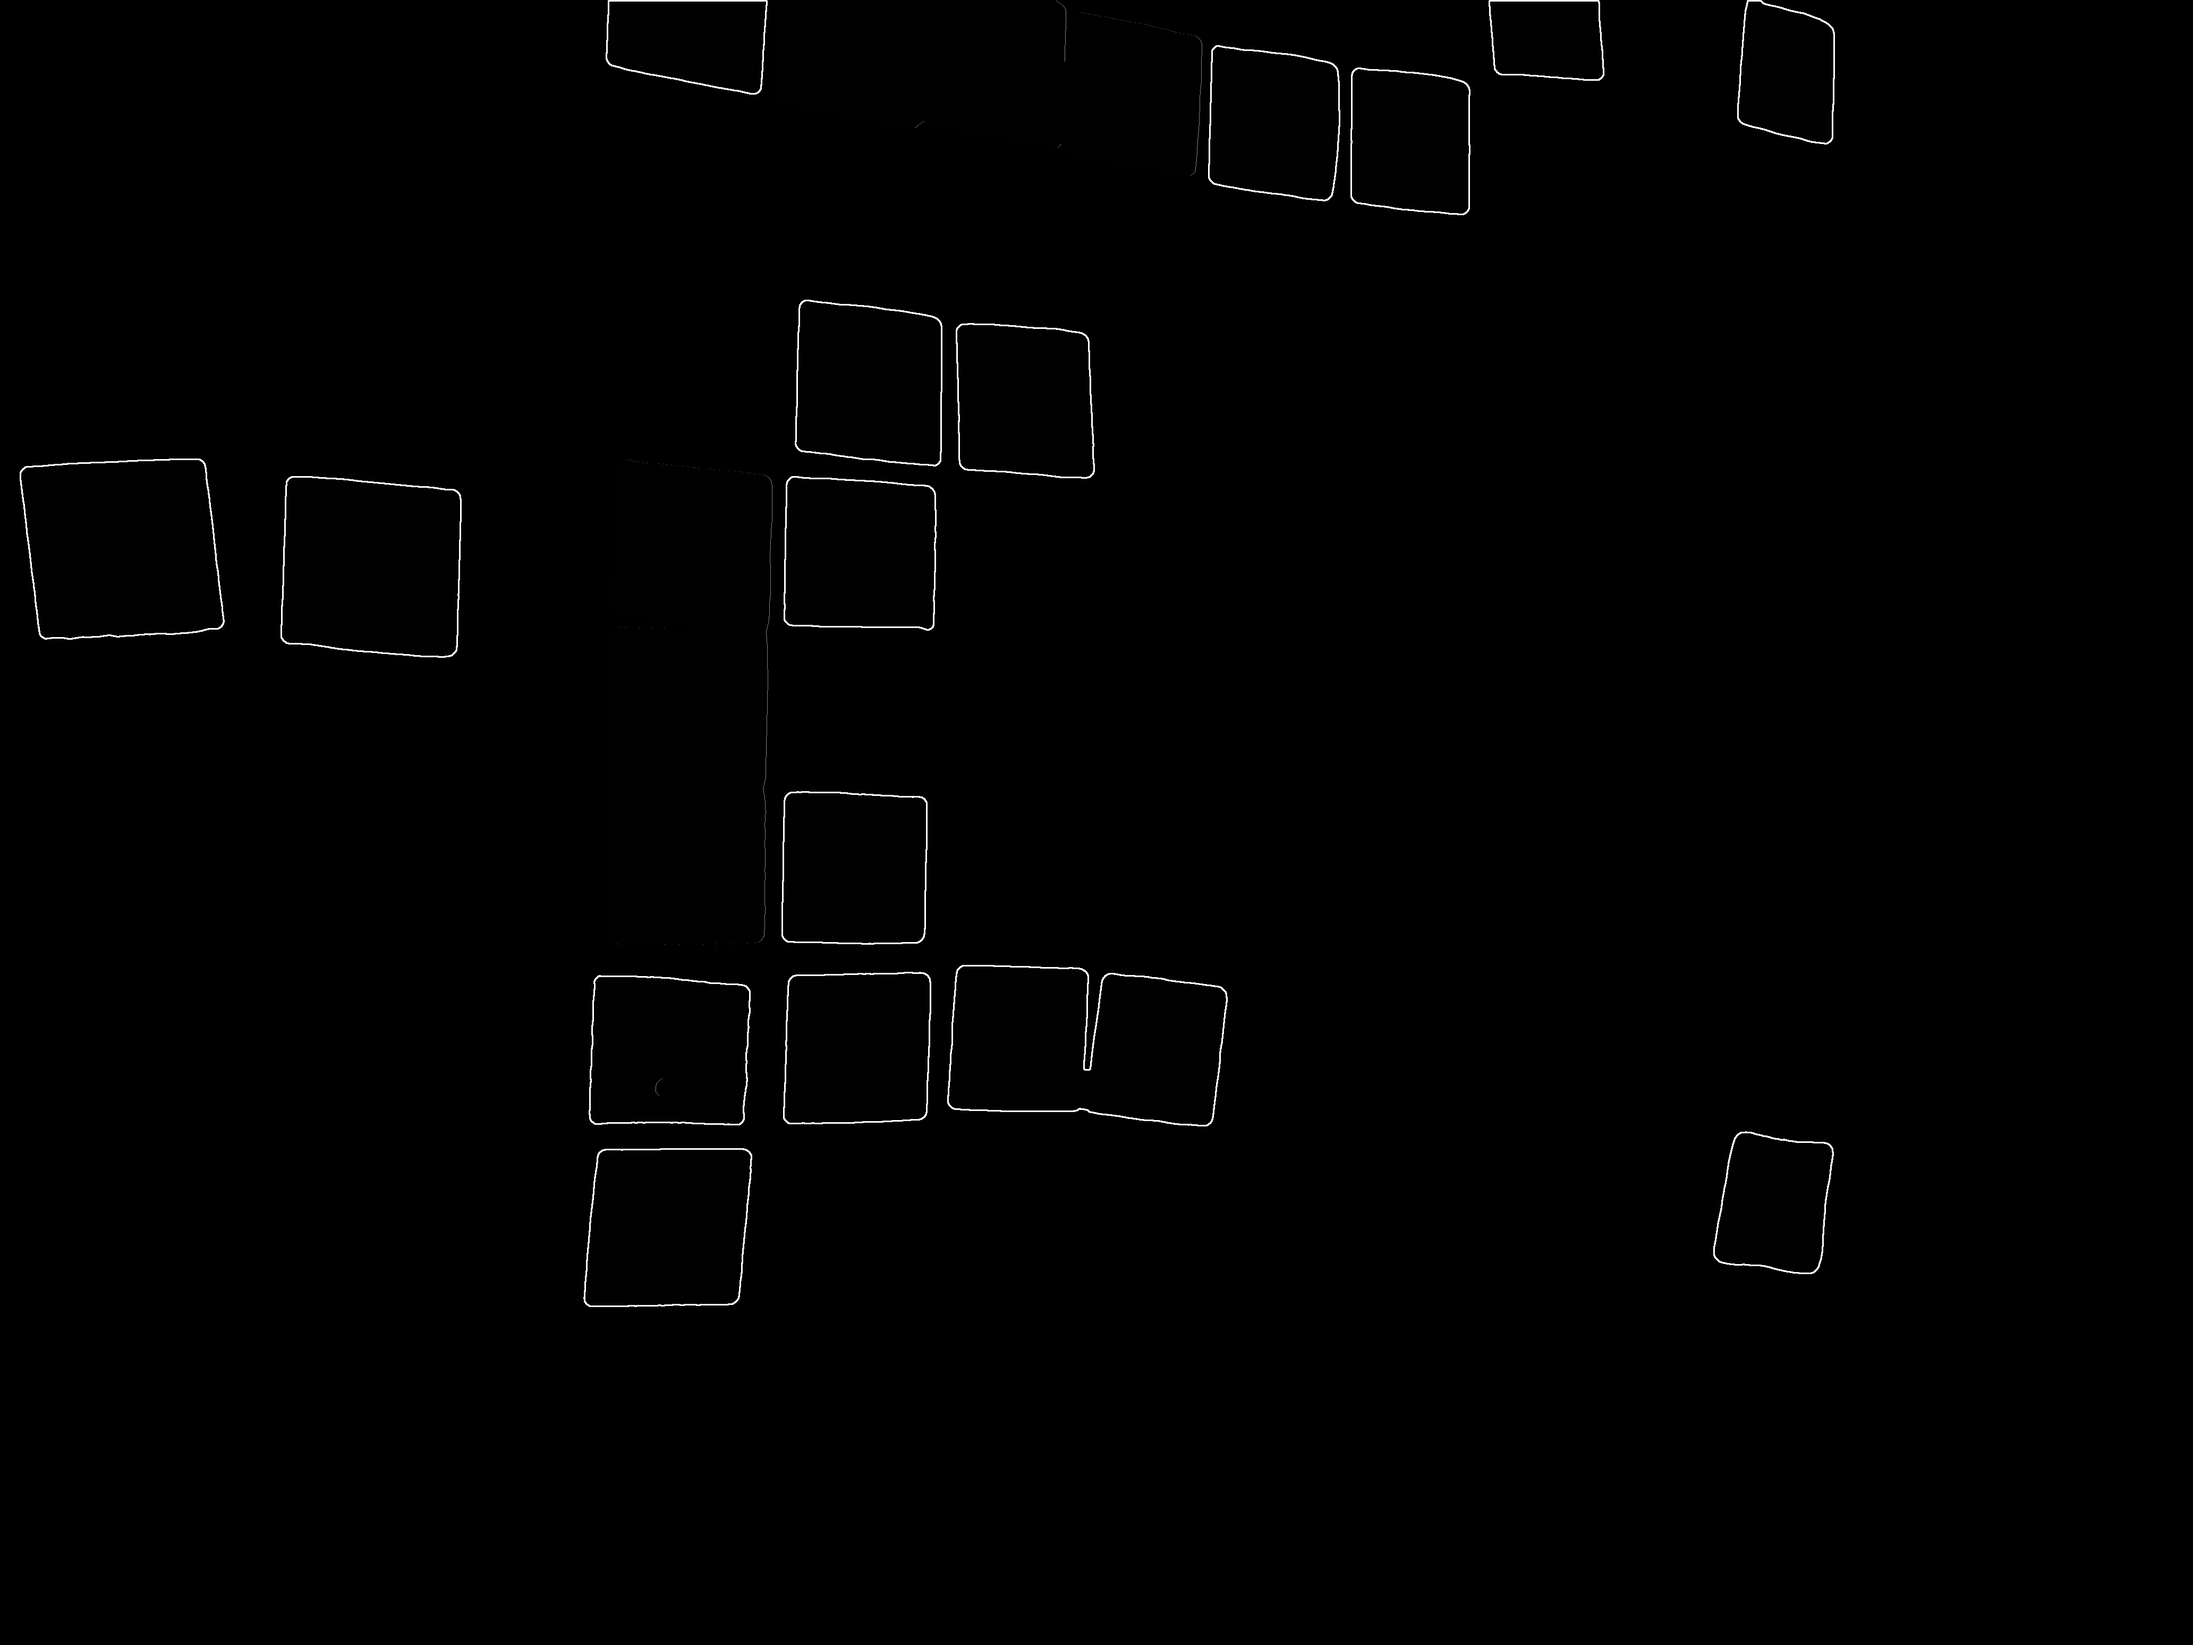
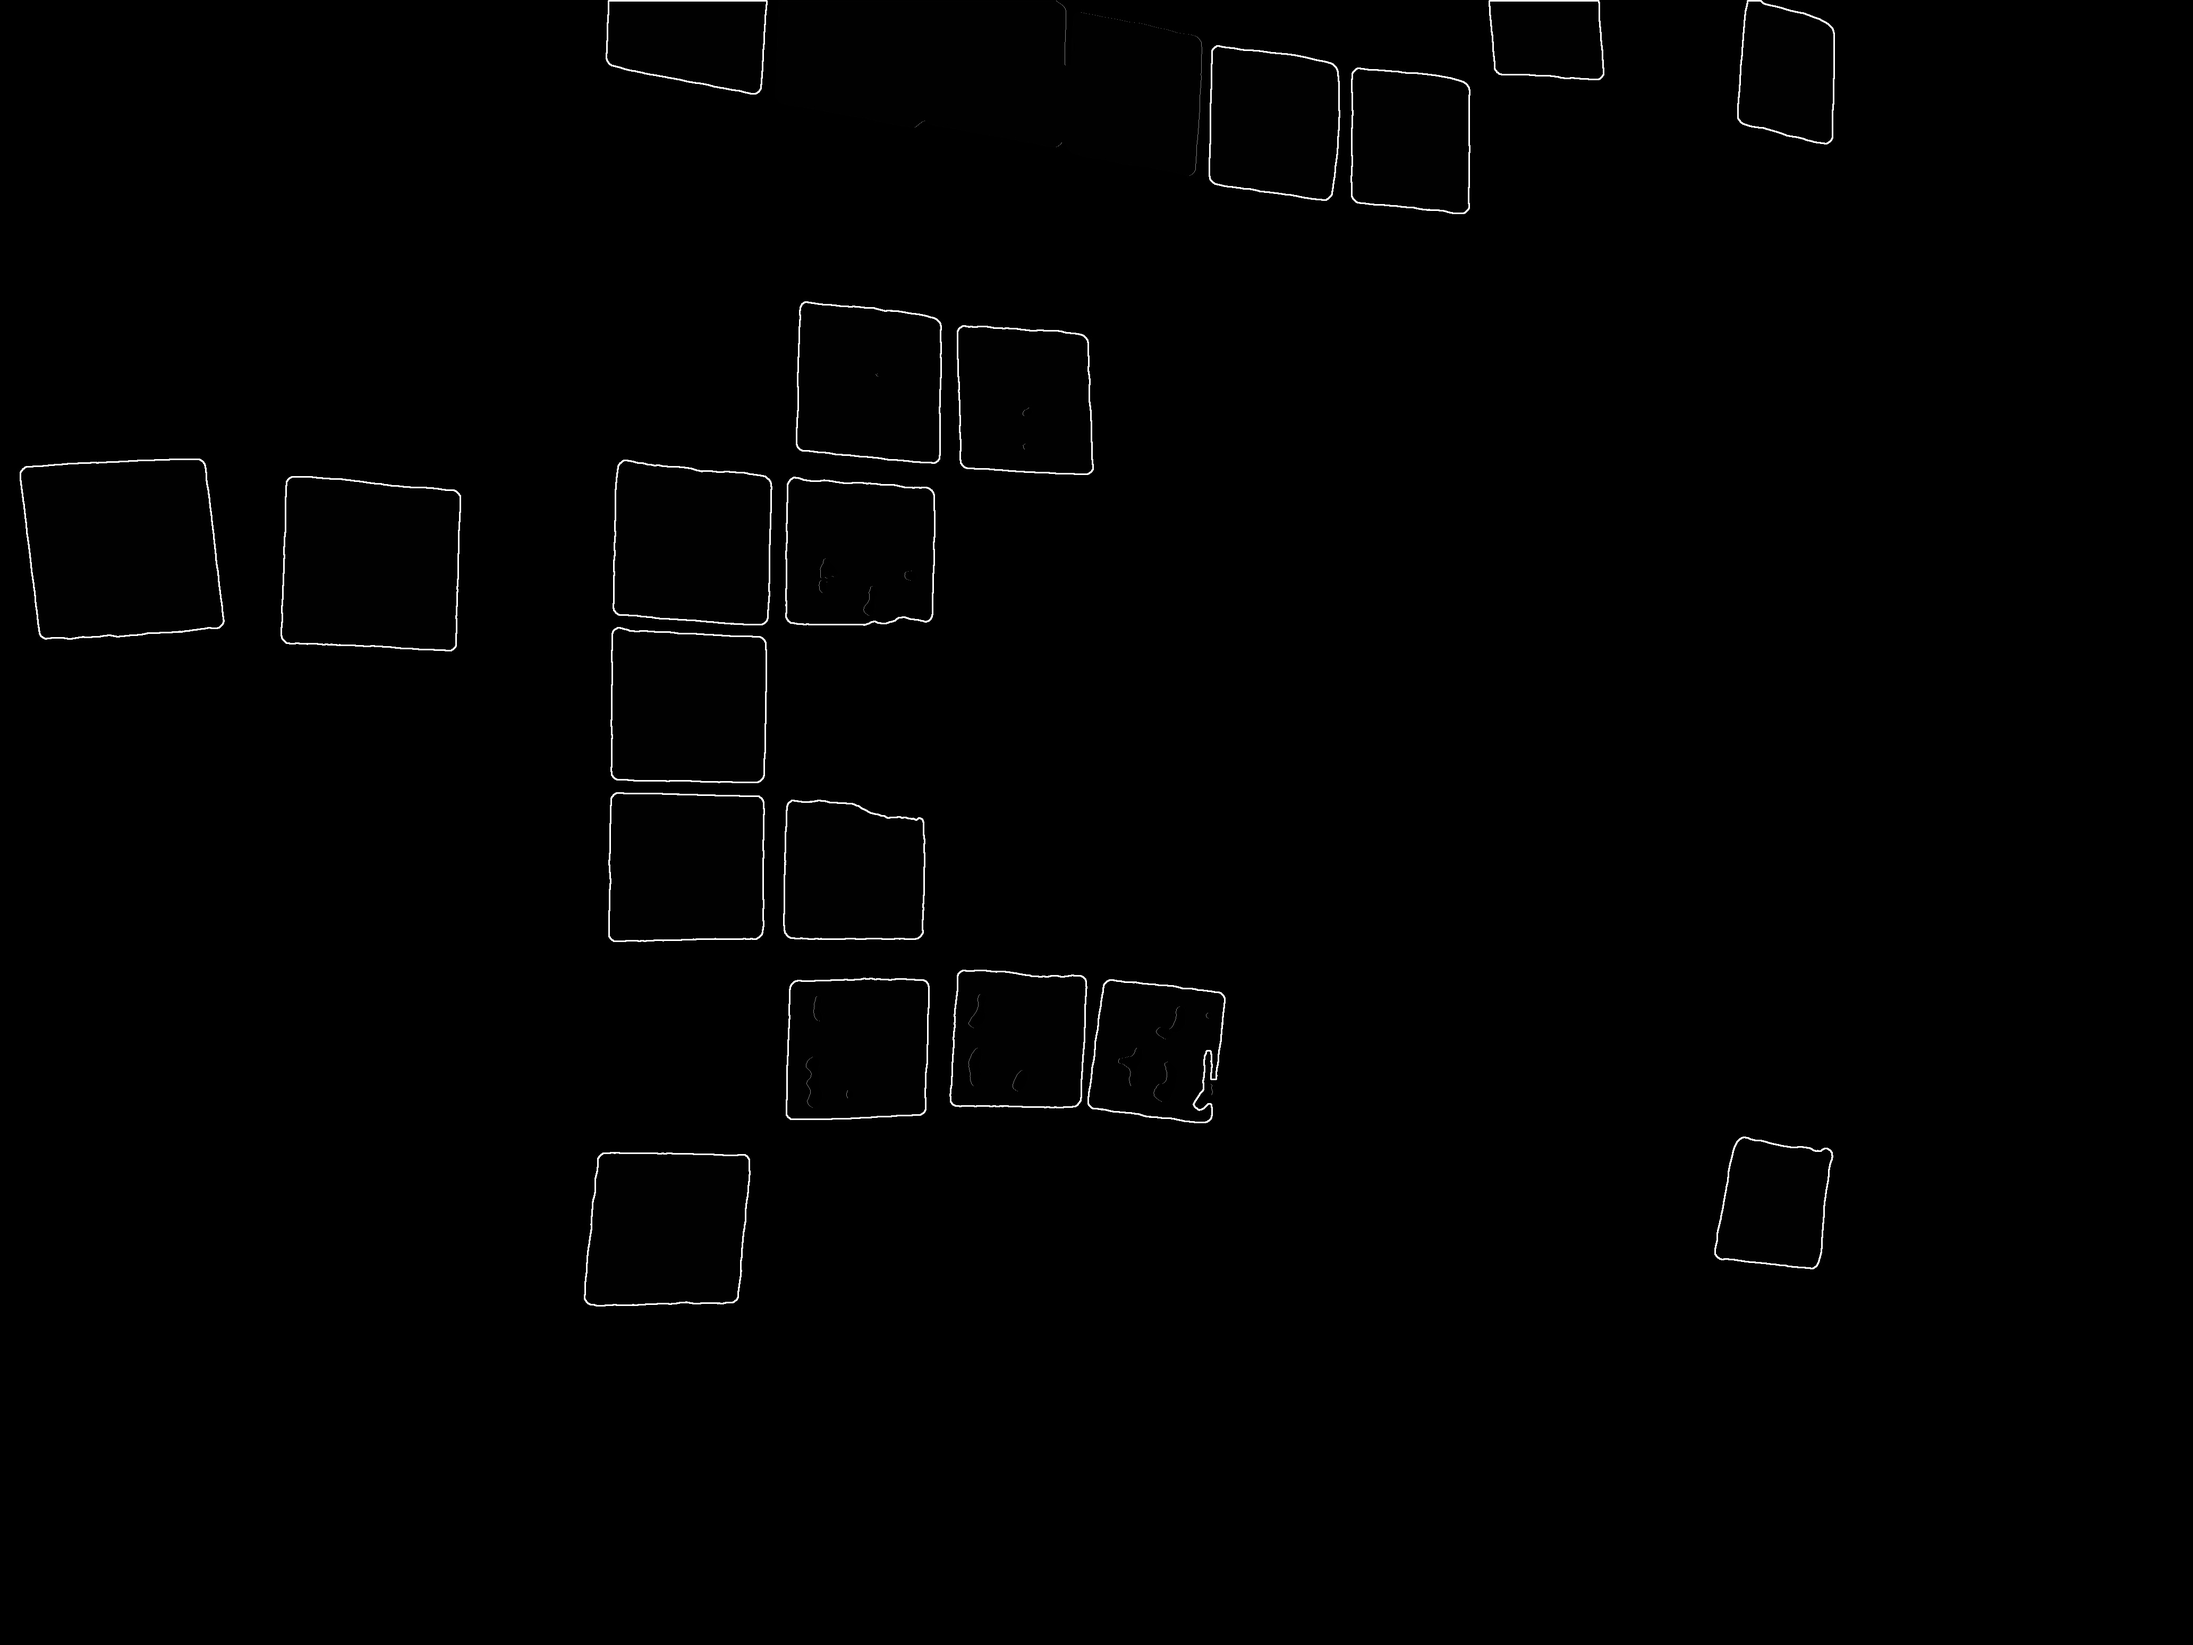
Amended to properly spit images

diff --git a/pi/crop.py b/pi/crop.py
@@ -233,6 +233,8 @@ def square_contours(threshed_image, original, name, region, label):
     contours, hierarchy = cv2.findContours(threshed_image, cv2.RETR_LIST, cv2.CHAIN_APPROX_SIMPLE)
     noOfPostIts = 0
     reg = 0
+    newMax = 0
+    newMin = 0
     # TODO : Fix when multiple stickies are merged, aka extract the shapes
     # TODO : ID anti-patterns - multiple stickies grouped and writen on, multiple stickies stacked, etc..
     for cnt in contours:
@@ -247,11 +249,22 @@ def square_contours(threshed_image, original, name, region, label):
             min_col = square[::, 0:1:].min()
             max_col = square[::, 0:1:].max()
 
-            # TODO : I believe the above rectify code is broken when stickies are "merged"
+            bx,by,bw,bh = cv2.boundingRect(cnt)
 
-            skew = original[min_row:max_row:, min_col:max_col:, ::]
-            noOfPostIts += 1
+            if bh >= 370:
+                newMax = max_row - (bh/2)
+                skew = original[min_row:newMax:, min_col:max_col:, ::]
+                newMin = min_row + (bh/2)
+                skew1 = original[newMin:max_row:, min_col:max_col:, ::]
+                noOfPostIts += 2
+            else:
+                skew = original[min_row:max_row:, min_col:max_col:, ::]
+                noOfPostIts += 1
+                temp_post = get_square(skew, name)
+                cv2.imwrite(post_name, temp_post)
+
             temp_post = get_square(skew, name)
+            # TODO : Crate a second temp post so we can write them both out
 
             xloc = int((max_col + min_col) / 2)
             yloc = int((max_row + min_row) / 2)
@@ -259,8 +272,6 @@ def square_contours(threshed_image, original, name, region, label):
             for cnt in range(0, noCols):
                 if (xloc > region[cnt] and xloc < region[cnt + 1]):
                     reg = cnt + 1
-                else:
-                    print "FAIL"
 
             sign = grid_signature(binarize(temp_post))
             #print signature
